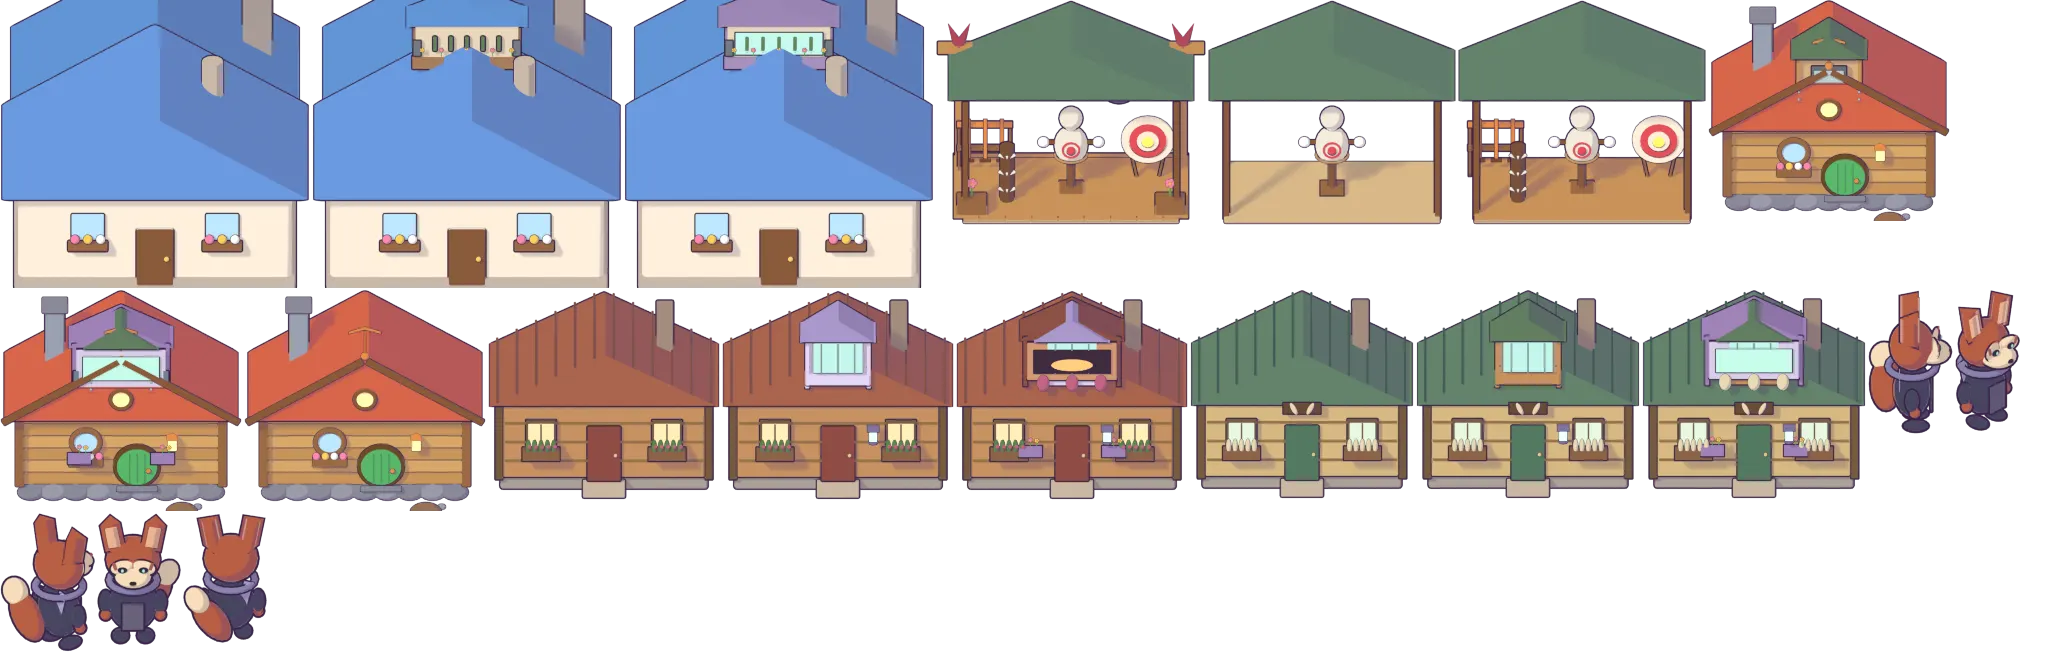
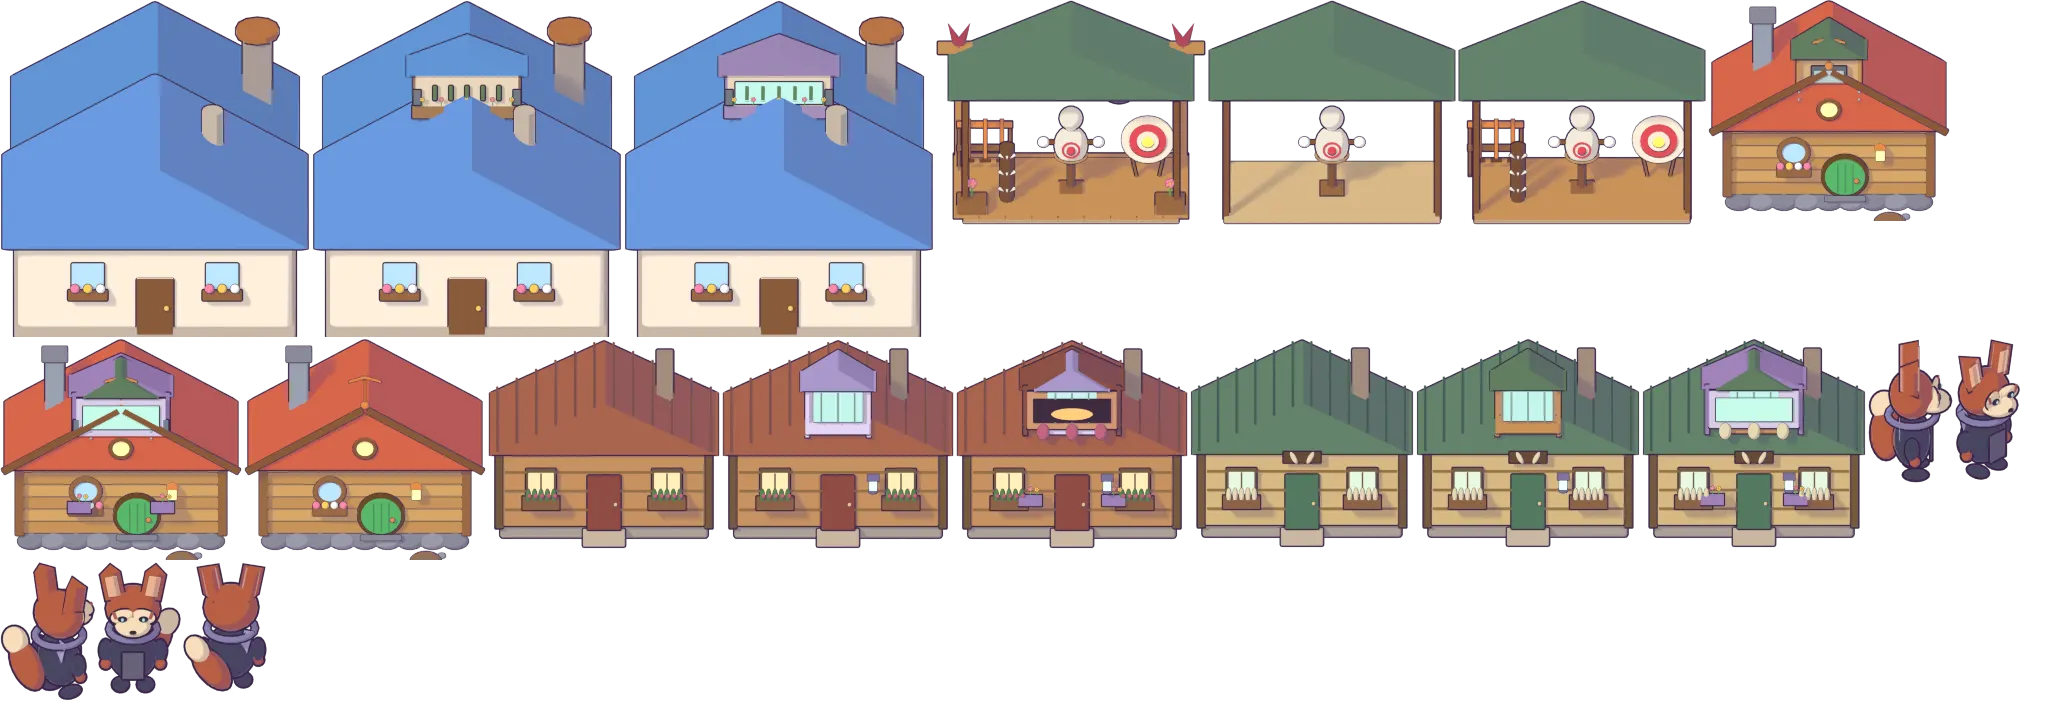
Granny's Kitchen on the map shows its whole roof again: the back wing and chimney were cut off at the top.
Claude-Session: https://claude.ai/code/session_01Cnp5YLEMizt2p6ijhwv75C

diff --git a/art/render_all.py b/art/render_all.py
@@ -109,7 +109,9 @@ elif GROUP == 'homes':
             continue
         lib.clear_objects()
         buildings.whole(name)
-        shot(f'env/{name}', 320, 288, 64, fit_origin=.86)
+        # The Kitchen's back wing and chimney stand taller than the other homes: a taller frame, same ground line.
+        tall = name.startswith('kitchen')
+        shot(f'env/{name}', 320, 400 if tall else 288, 64, fit_origin=.9 if tall else .86)
         shot(f'icon/b_{name}', 128, 128, 30, fit_origin=.82)
     for name, fn in (('rook', residents.build_rook), ('moss', residents.build_moss), ('alder', residents.build_alder), ('fox', residents.build_fox)):
         if not wanted(name):
